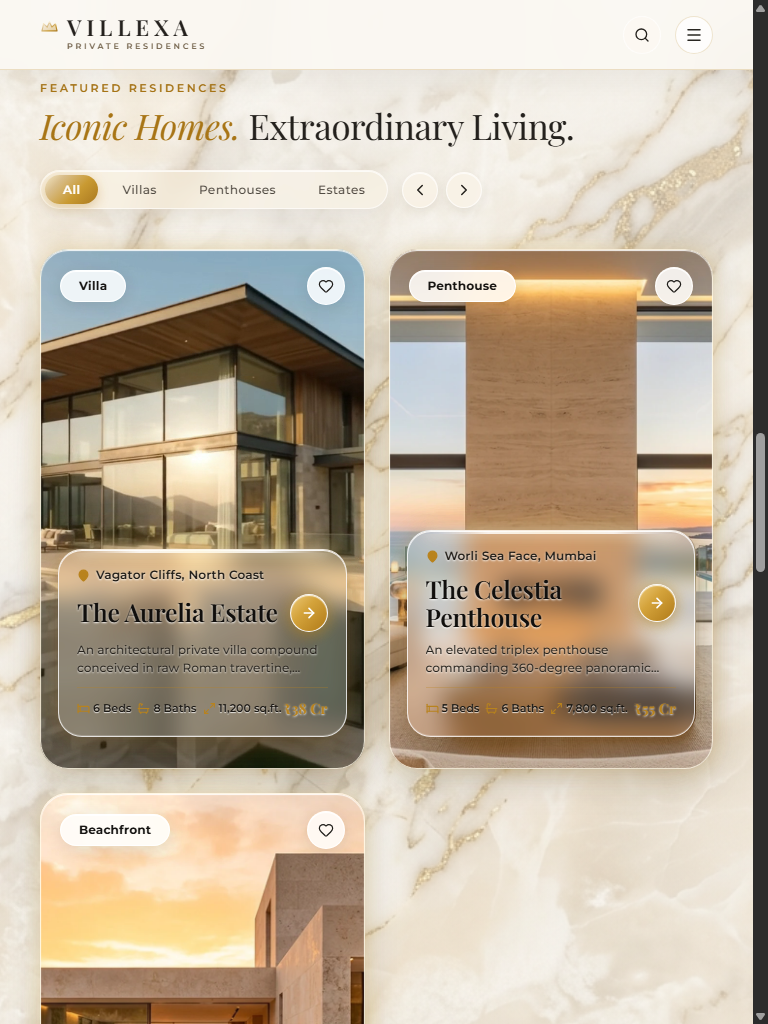
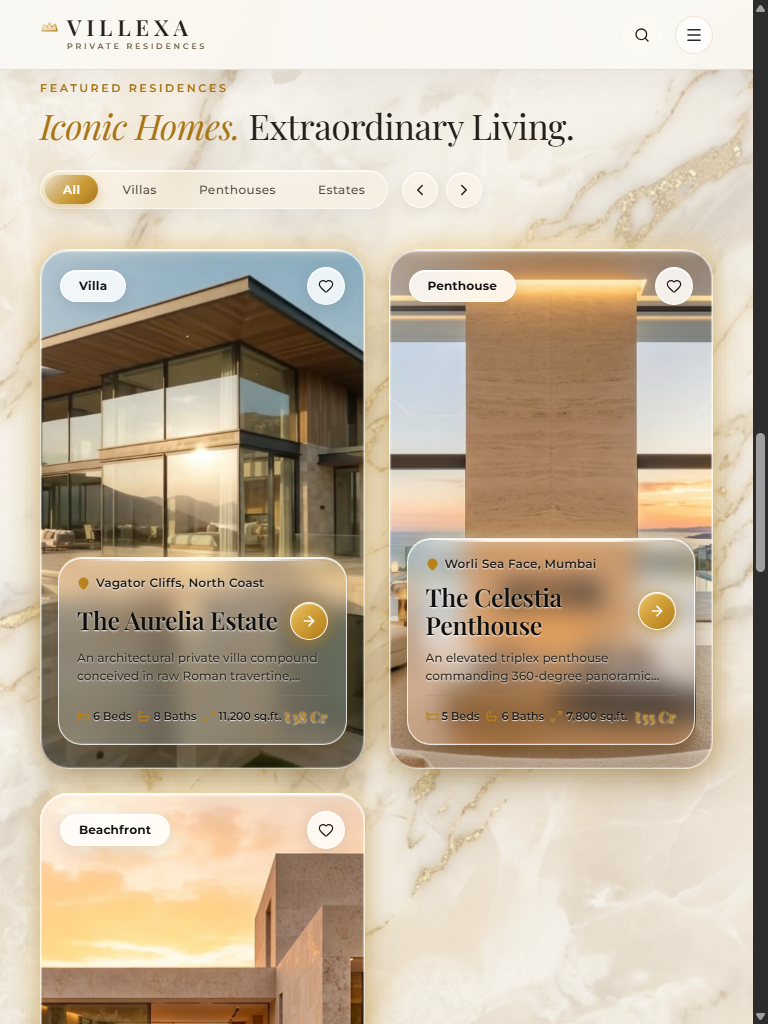
Update

diff --git a/src/components/property/PropertyCard.tsx b/src/components/property/PropertyCard.tsx
@@ -96,27 +96,65 @@ export const PropertyCard: React.FC<PropertyCardProps> = ({ property, priority =
         flexDirection: 'column',
         justifyContent: 'space-between',
         minHeight: '520px',
-        transform: 'translateY(0)',
-        transition: 'all 0.4s ease'
+        transform: isHovered && !prefersReducedMotion ? 'translateY(-8px)' : 'translateY(0)',
+        boxShadow: isHovered
+          ? '0 30px 60px -10px rgba(45, 32, 20, 0.22), 0 14px 28px rgba(45, 32, 20, 0.12), 0 0 42px rgba(225, 180, 85, 0.50), 0 0 85px rgba(225, 180, 85, 0.25)'
+          : '0 20px 42px -10px rgba(45, 32, 20, 0.16), 0 8px 18px rgba(45, 32, 20, 0.08), 0 0 28px rgba(225, 180, 85, 0.35), 0 0 60px rgba(225, 180, 85, 0.16)',
+        transition: 'transform 400ms cubic-bezier(0.2, 0.75, 0.25, 1), box-shadow 400ms ease'
       }}
     >
-      {/* Outer Border & Subtle Frame Glow (zIndex: 2, non-blocking) */}
+      {/* 1. FULL CARD GLASS FRAME (Translucent Beveled Edge & Exterior Gold Ambient Glow) */}
       <div
         style={{
           position: 'absolute',
           inset: 0,
           borderRadius: '28px',
-          border: isHovered ? '1.5px solid rgba(250, 220, 150, 0.95)' : '1.5px solid rgba(255, 248, 230, 0.90)',
+          border: isHovered ? '1.5px solid rgba(255, 255, 255, 0.98)' : '1.5px solid rgba(255, 250, 235, 0.88)',
           boxShadow: isHovered
-            ? '0 20px 48px rgba(45, 32, 20, 0.16), 0 0 30px rgba(220, 175, 75, 0.45), inset 0 1px 2px rgba(255, 255, 255, 0.95)'
-            : '0 14px 36px rgba(45, 32, 20, 0.12), 0 0 20px rgba(220, 175, 75, 0.30), inset 0 1px 1px rgba(255, 255, 255, 0.90)',
+            ? 'inset 0 2px 2px rgba(255, 255, 255, 0.95), inset 0 -1.5px 2px rgba(255, 255, 255, 0.40), inset 1.5px 0 1.5px rgba(255, 255, 255, 0.45), inset -1.5px 0 1.5px rgba(255, 255, 255, 0.45), 0 0 24px rgba(230, 190, 100, 0.45)'
+            : 'inset 0 1.5px 1.5px rgba(255, 255, 255, 0.90), inset 0 -1px 1px rgba(255, 255, 255, 0.30), inset 1px 0 1px rgba(255, 255, 255, 0.35), inset -1px 0 1px rgba(255, 255, 255, 0.35), 0 0 16px rgba(230, 190, 100, 0.30)',
           pointerEvents: 'none',
-          zIndex: 2,
+          zIndex: 3,
           transition: 'border-color 0.4s ease, box-shadow 0.4s ease'
         }}
       />
 
-      {/* 1. LARGE ARCHITECTURAL PHOTOGRAPHY (Main Visual Backdrop, clipped to 28px radius) */}
+      {/* Top Specular Reflection Line along Card Top Rim */}
+      <div
+        style={{
+          position: 'absolute',
+          top: 0,
+          left: '5%',
+          right: '5%',
+          height: '2px',
+          background: 'linear-gradient(90deg, transparent 0%, rgba(255, 255, 255, 0.95) 20%, #FFF8E8 50%, rgba(255, 255, 255, 0.95) 80%, transparent 100%)',
+          pointerEvents: 'none',
+          boxShadow: isHovered
+            ? '0 0 14px rgba(255, 255, 255, 1), 0 0 26px rgba(235, 195, 110, 0.85)'
+            : '0 0 10px rgba(255, 255, 255, 0.90), 0 0 18px rgba(235, 195, 110, 0.65)',
+          zIndex: 4,
+          transition: 'all 0.35s ease'
+        }}
+      />
+
+      {/* Diagonal Glass Specular Sheen (Subtle glass glare across top corner) */}
+      <div
+        style={{
+          position: 'absolute',
+          top: 0,
+          left: 0,
+          right: 0,
+          height: '190px',
+          background: 'linear-gradient(145deg, rgba(255, 255, 255, 0.32) 0%, rgba(255, 255, 255, 0.08) 30%, transparent 65%)',
+          borderRadius: '28px 28px 0 0',
+          pointerEvents: 'none',
+          zIndex: 2,
+          opacity: isHovered ? 0.95 : 0.80,
+          transition: 'opacity 0.4s ease'
+        }}
+      />
+
+      {/* 2. LARGE ARCHITECTURAL PHOTOGRAPHY (Dominant, Crisp Visual Backbone) */}
       <div
         style={{
           position: 'absolute',
@@ -242,7 +280,7 @@ export const PropertyCard: React.FC<PropertyCardProps> = ({ property, priority =
         className="property-glass-card glass-panel-integrated floating-glass-panel"
         style={{
           position: 'relative',
-          zIndex: 4,
+          zIndex: 5,
           margin: '0 18px 24px 18px',
           marginTop: 'auto',
           padding: '16px 18px',
@@ -258,7 +296,7 @@ export const PropertyCard: React.FC<PropertyCardProps> = ({ property, priority =
           border: isHovered
             ? '1px solid rgba(255, 255, 255, 0.92)'
             : '1px solid rgba(255, 255, 255, 0.78)',
-          transform: isHovered && !prefersReducedMotion ? 'translateY(-16px)' : 'translateY(-8px)',
+          transform: isHovered && !prefersReducedMotion ? 'translateY(-8px)' : 'translateY(0)',
           boxShadow: isHovered
             ? '0 28px 52px rgba(42, 27, 12, 0.28), 0 12px 22px rgba(42, 27, 12, 0.16), 0 0 35px rgba(218, 169, 75, 0.45), 0 0 65px rgba(218, 169, 75, 0.22), inset 0 1.5px 0 rgba(255, 255, 255, 1.0), inset 0 -1px 0 rgba(255, 255, 255, 0.30)'
             : '0 20px 38px rgba(42, 27, 12, 0.22), 0 8px 16px rgba(42, 27, 12, 0.12), 0 0 25px rgba(218, 169, 75, 0.30), 0 0 50px rgba(218, 169, 75, 0.14), inset 0 1px 0 rgba(255, 255, 255, 0.90), inset 0 -1px 0 rgba(255, 255, 255, 0.20)',

diff --git a/src/styles/main.css b/src/styles/main.css
@@ -586,7 +586,7 @@ a {
 }
 
 /* ==========================================================================
-   4. LUXURY PROPERTY CARDS (Floating Elevated Glass Plaque & Exterior Golden Halo)
+   4. LUXURY PROPERTY CARDS (Full Glassmorphic Card & Floating Inner Slab)
    ========================================================================== */
 
 .luxury-property-card {
@@ -597,18 +597,18 @@ a {
   justify-content: space-between;
   border-radius: 28px;
   background-color: transparent;
-  transition: transform 400ms cubic-bezier(0.2, 0.75, 0.25, 1);
+  transition: transform 400ms cubic-bezier(0.2, 0.75, 0.25, 1), box-shadow 400ms ease;
 }
 
 /* Outer Champagne-Gold Aura extending beyond card border onto marble */
 .luxury-property-card::before {
   content: '';
   position: absolute;
-  inset: -10px;
-  border-radius: 36px;
+  inset: -12px;
+  border-radius: 40px;
   background: radial-gradient(ellipse at 50% 50%, rgba(225, 180, 85, 0.45) 0%, rgba(225, 180, 85, 0.20) 45%, transparent 75%);
-  filter: blur(14px);
-  -webkit-filter: blur(14px);
+  filter: blur(16px);
+  -webkit-filter: blur(16px);
   z-index: 0;
   pointer-events: none;
   opacity: 0.85;
@@ -617,9 +617,9 @@ a {
 
 .luxury-property-card:hover::before {
   opacity: 1;
-  inset: -14px;
-  filter: blur(18px);
-  -webkit-filter: blur(18px);
+  inset: -16px;
+  filter: blur(20px);
+  -webkit-filter: blur(20px);
   background: radial-gradient(ellipse at 50% 50%, rgba(235, 190, 95, 0.60) 0%, rgba(225, 180, 85, 0.28) 45%, transparent 75%);
 }
 
@@ -637,15 +637,15 @@ a {
   border-radius: 24px;
 
   box-shadow:
-    0 20px 38px rgba(42, 27, 12, 0.22),
+    0 18px 36px rgba(42, 27, 12, 0.20),
     0 8px 16px rgba(42, 27, 12, 0.12),
-    0 0 25px rgba(218, 169, 75, 0.30),
-    0 0 50px rgba(218, 169, 75, 0.14),
-    inset 0 1px 0 rgba(255, 255, 255, 0.90),
+    0 0 22px rgba(218, 169, 75, 0.28),
+    0 0 45px rgba(218, 169, 75, 0.12),
+    inset 0 1px 0 rgba(255, 255, 255, 0.88),
     inset 0 -1px 0 rgba(255, 255, 255, 0.20);
 
   color: #1E1C19;
-  transform: translateY(-8px);
+  transform: translateY(0);
   transition:
     transform 400ms cubic-bezier(0.2, 0.75, 0.25, 1),
     box-shadow 400ms ease,
@@ -658,14 +658,14 @@ a {
 .glass-property-card:hover,
 .glass-panel-integrated:hover,
 .floating-glass-panel:hover {
-  transform: translateY(-16px);
+  transform: translateY(-8px);
   background: rgba(246, 239, 224, 0.28);
-  border-color: rgba(255, 255, 255, 0.95);
+  border-color: rgba(255, 255, 255, 0.92);
   box-shadow:
-    0 28px 52px rgba(42, 27, 12, 0.28),
+    0 24px 48px rgba(42, 27, 12, 0.26),
     0 12px 22px rgba(42, 27, 12, 0.16),
-    0 0 35px rgba(218, 169, 75, 0.45),
-    0 0 65px rgba(218, 169, 75, 0.22),
+    0 0 32px rgba(218, 169, 75, 0.42),
+    0 0 60px rgba(218, 169, 75, 0.20),
     inset 0 1.5px 0 rgba(255, 255, 255, 1.0),
     inset 0 -1px 0 rgba(255, 255, 255, 0.30);
 }
